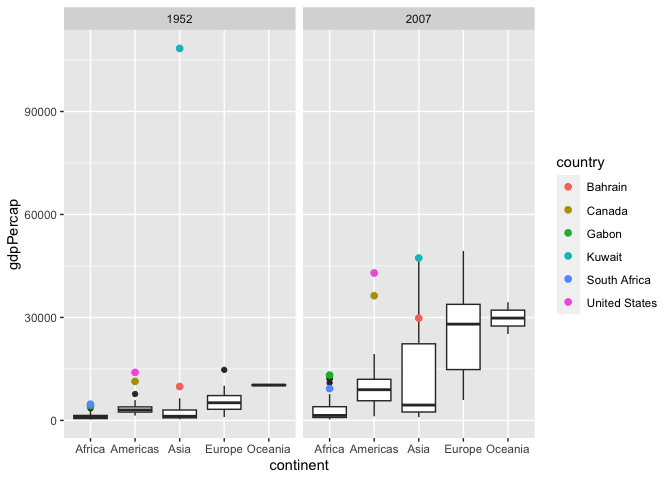
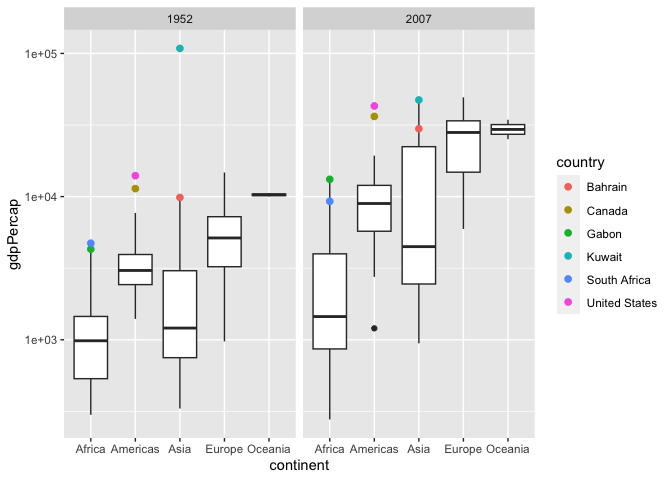
c04 corrections

diff --git a/challenges/c04-gapminder-assignment.md b/challenges/c04-gapminder-assignment.md
@@ -1,7 +1,7 @@
 Gapminder
 ================
-(Your name here)
-2020-
+Anmol Rattan Singh Sandhu
+2023-02-26
 
 - <a href="#grading-rubric" id="toc-grading-rubric">Grading Rubric</a>
   - <a href="#individual" id="toc-individual">Individual</a>
@@ -209,7 +209,8 @@ can.
 gapminder %>% 
   filter(year == year_min) %>% 
   ggplot(aes(x = continent, y = gdpPercap)) +
-  geom_boxplot()
+  geom_boxplot() +
+  scale_y_log10()
 ```
 
 ![](c04-gapminder-assignment_files/figure-gfm/q2-task-1.png)<!-- -->
@@ -308,6 +309,7 @@ gapminder %>%
     mapping = aes(color = country),
     size = 2
   ) +
+  scale_y_log10() +
   facet_wrap(~year)
 ```
 
@@ -376,7 +378,7 @@ gapminder %>%
 ``` r
 best_lifeExp %>% 
   ggplot(aes(x = year, y = lifeExp)) +
-  geom_line(aes(color = country))
+  geom_point(aes(color = country))
 ```
 
 ![](c04-gapminder-assignment_files/figure-gfm/q5-task2-1.png)<!-- -->
@@ -391,7 +393,7 @@ best_lifeExp %>%
 ``` r
 best_lifeExp %>%
   ggplot(aes(x = year, y = lifeExp)) +
-  geom_line(aes(color = country)) + 
+  geom_point(aes(color = country)) + 
   geom_point(
     data = . %>% filter(year == year_min),
     aes(size = gdpPercap)
